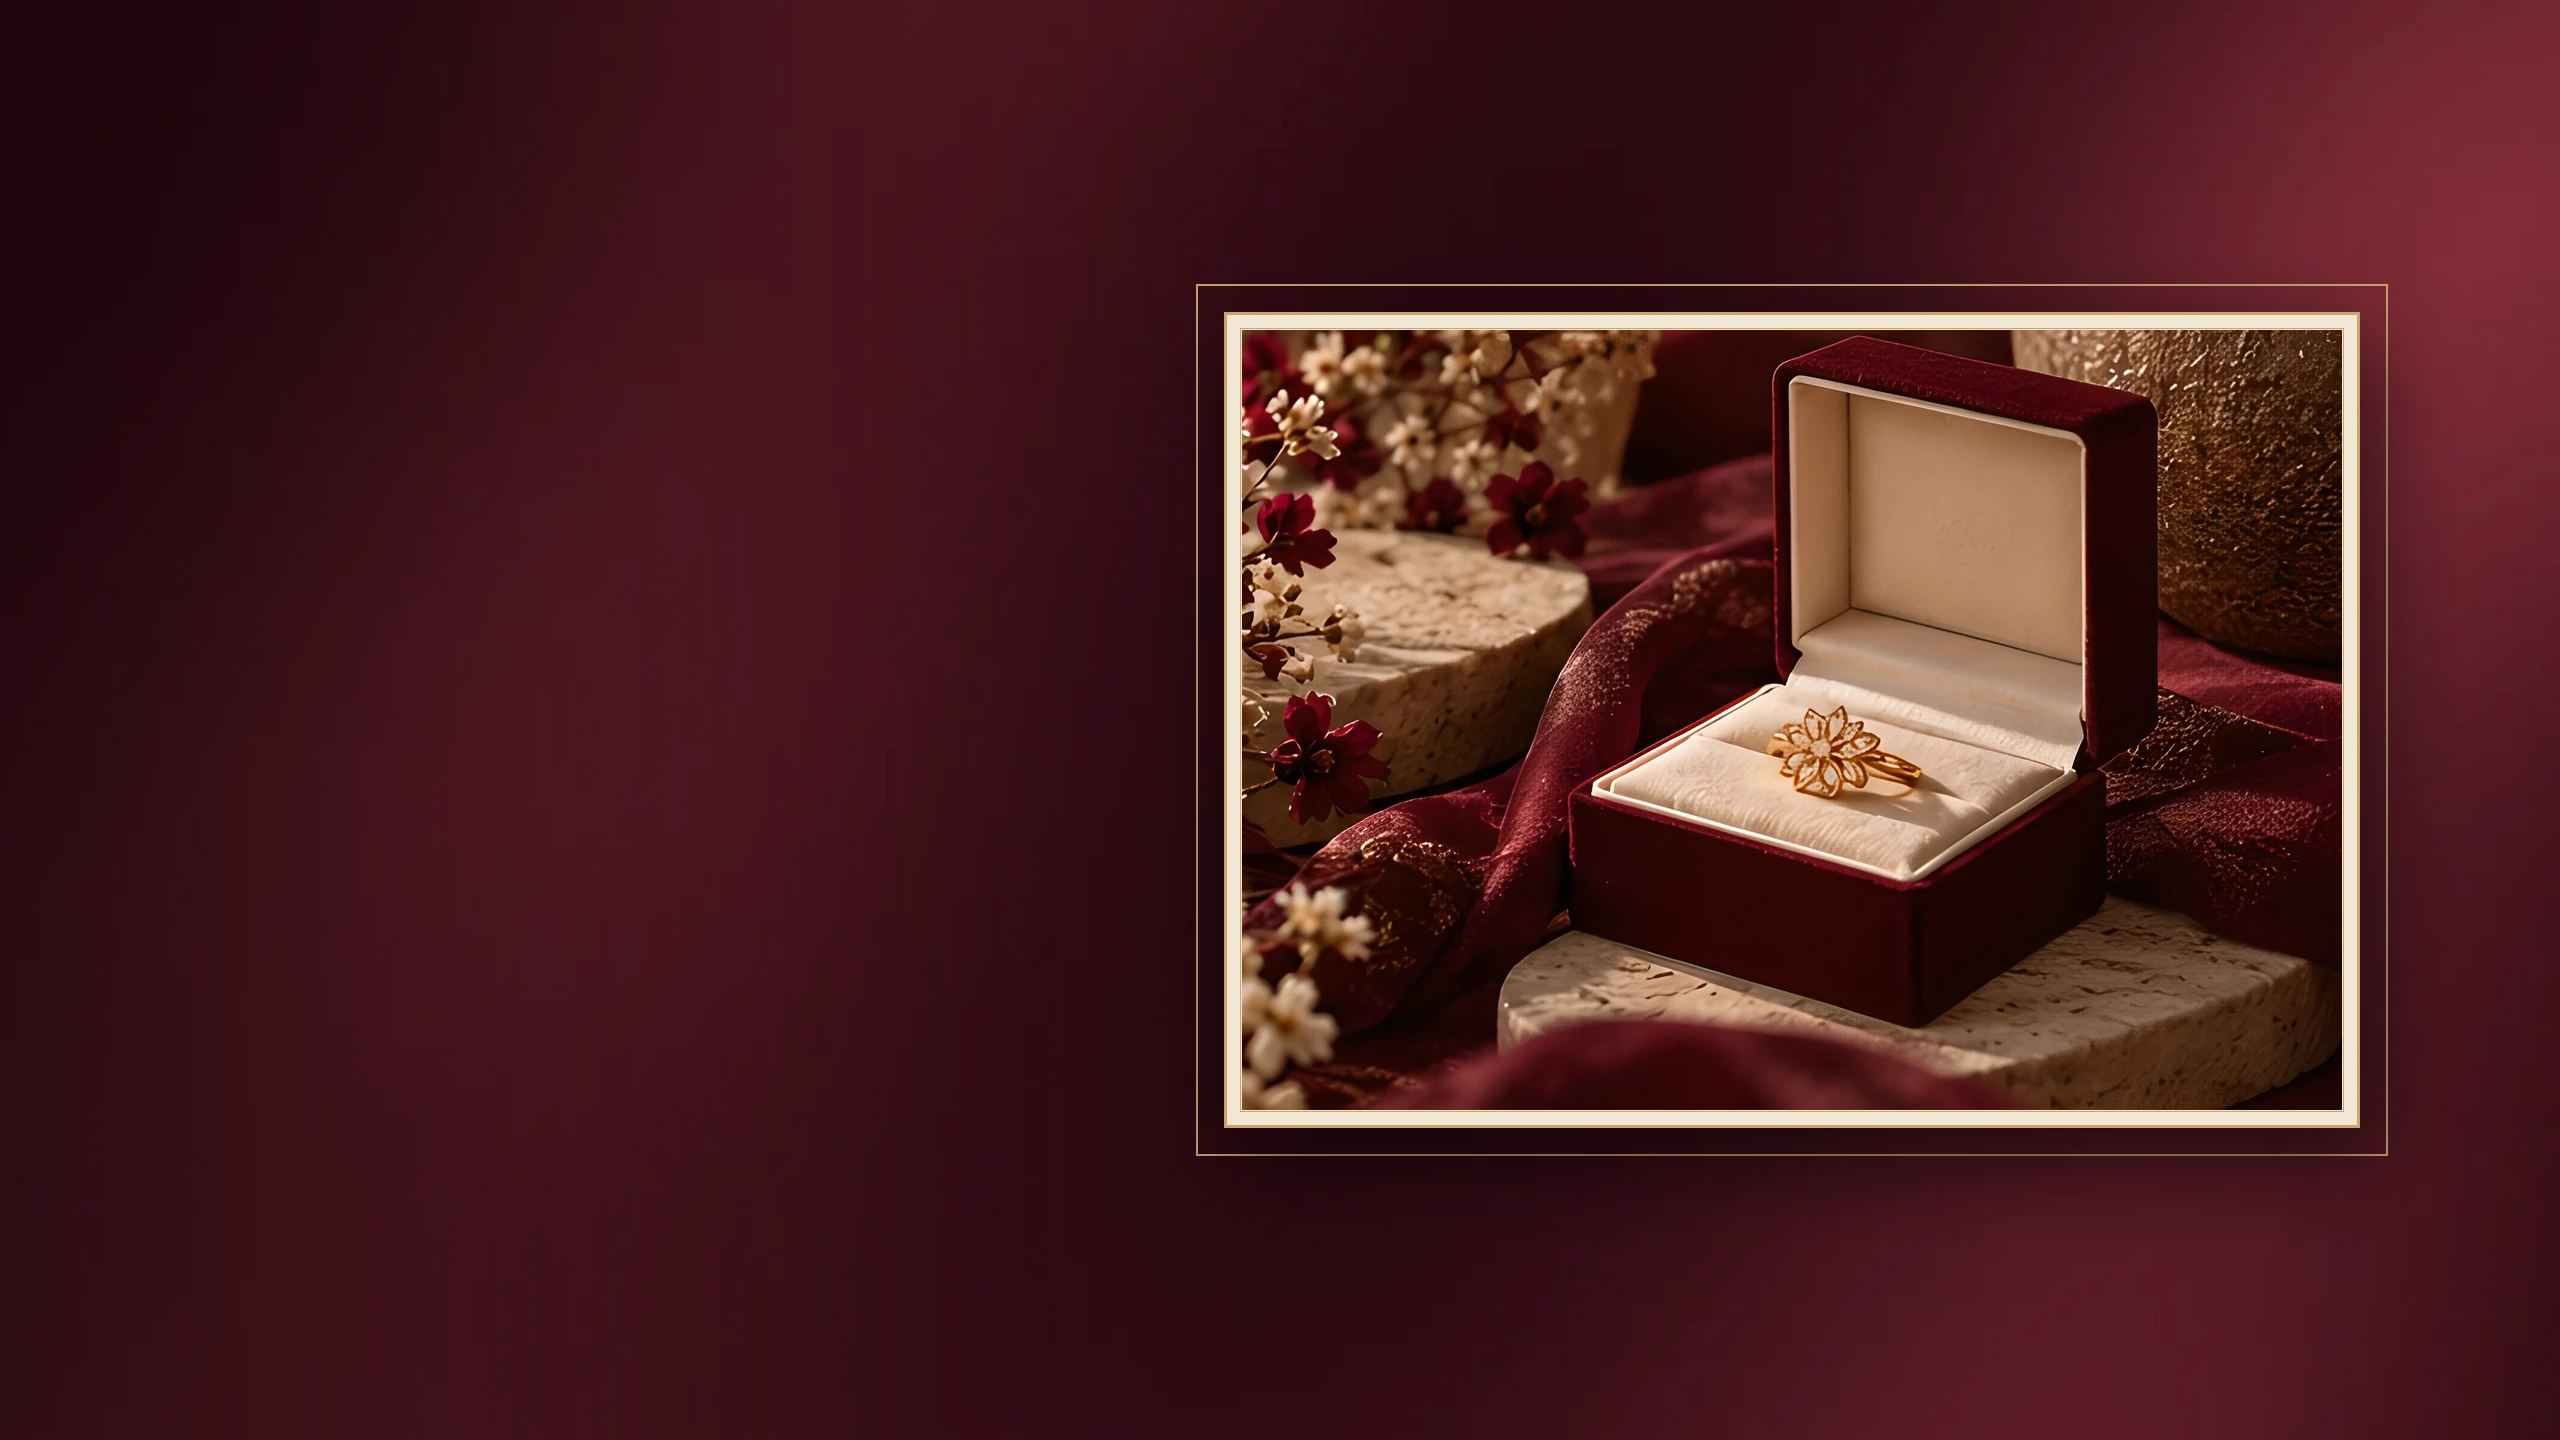
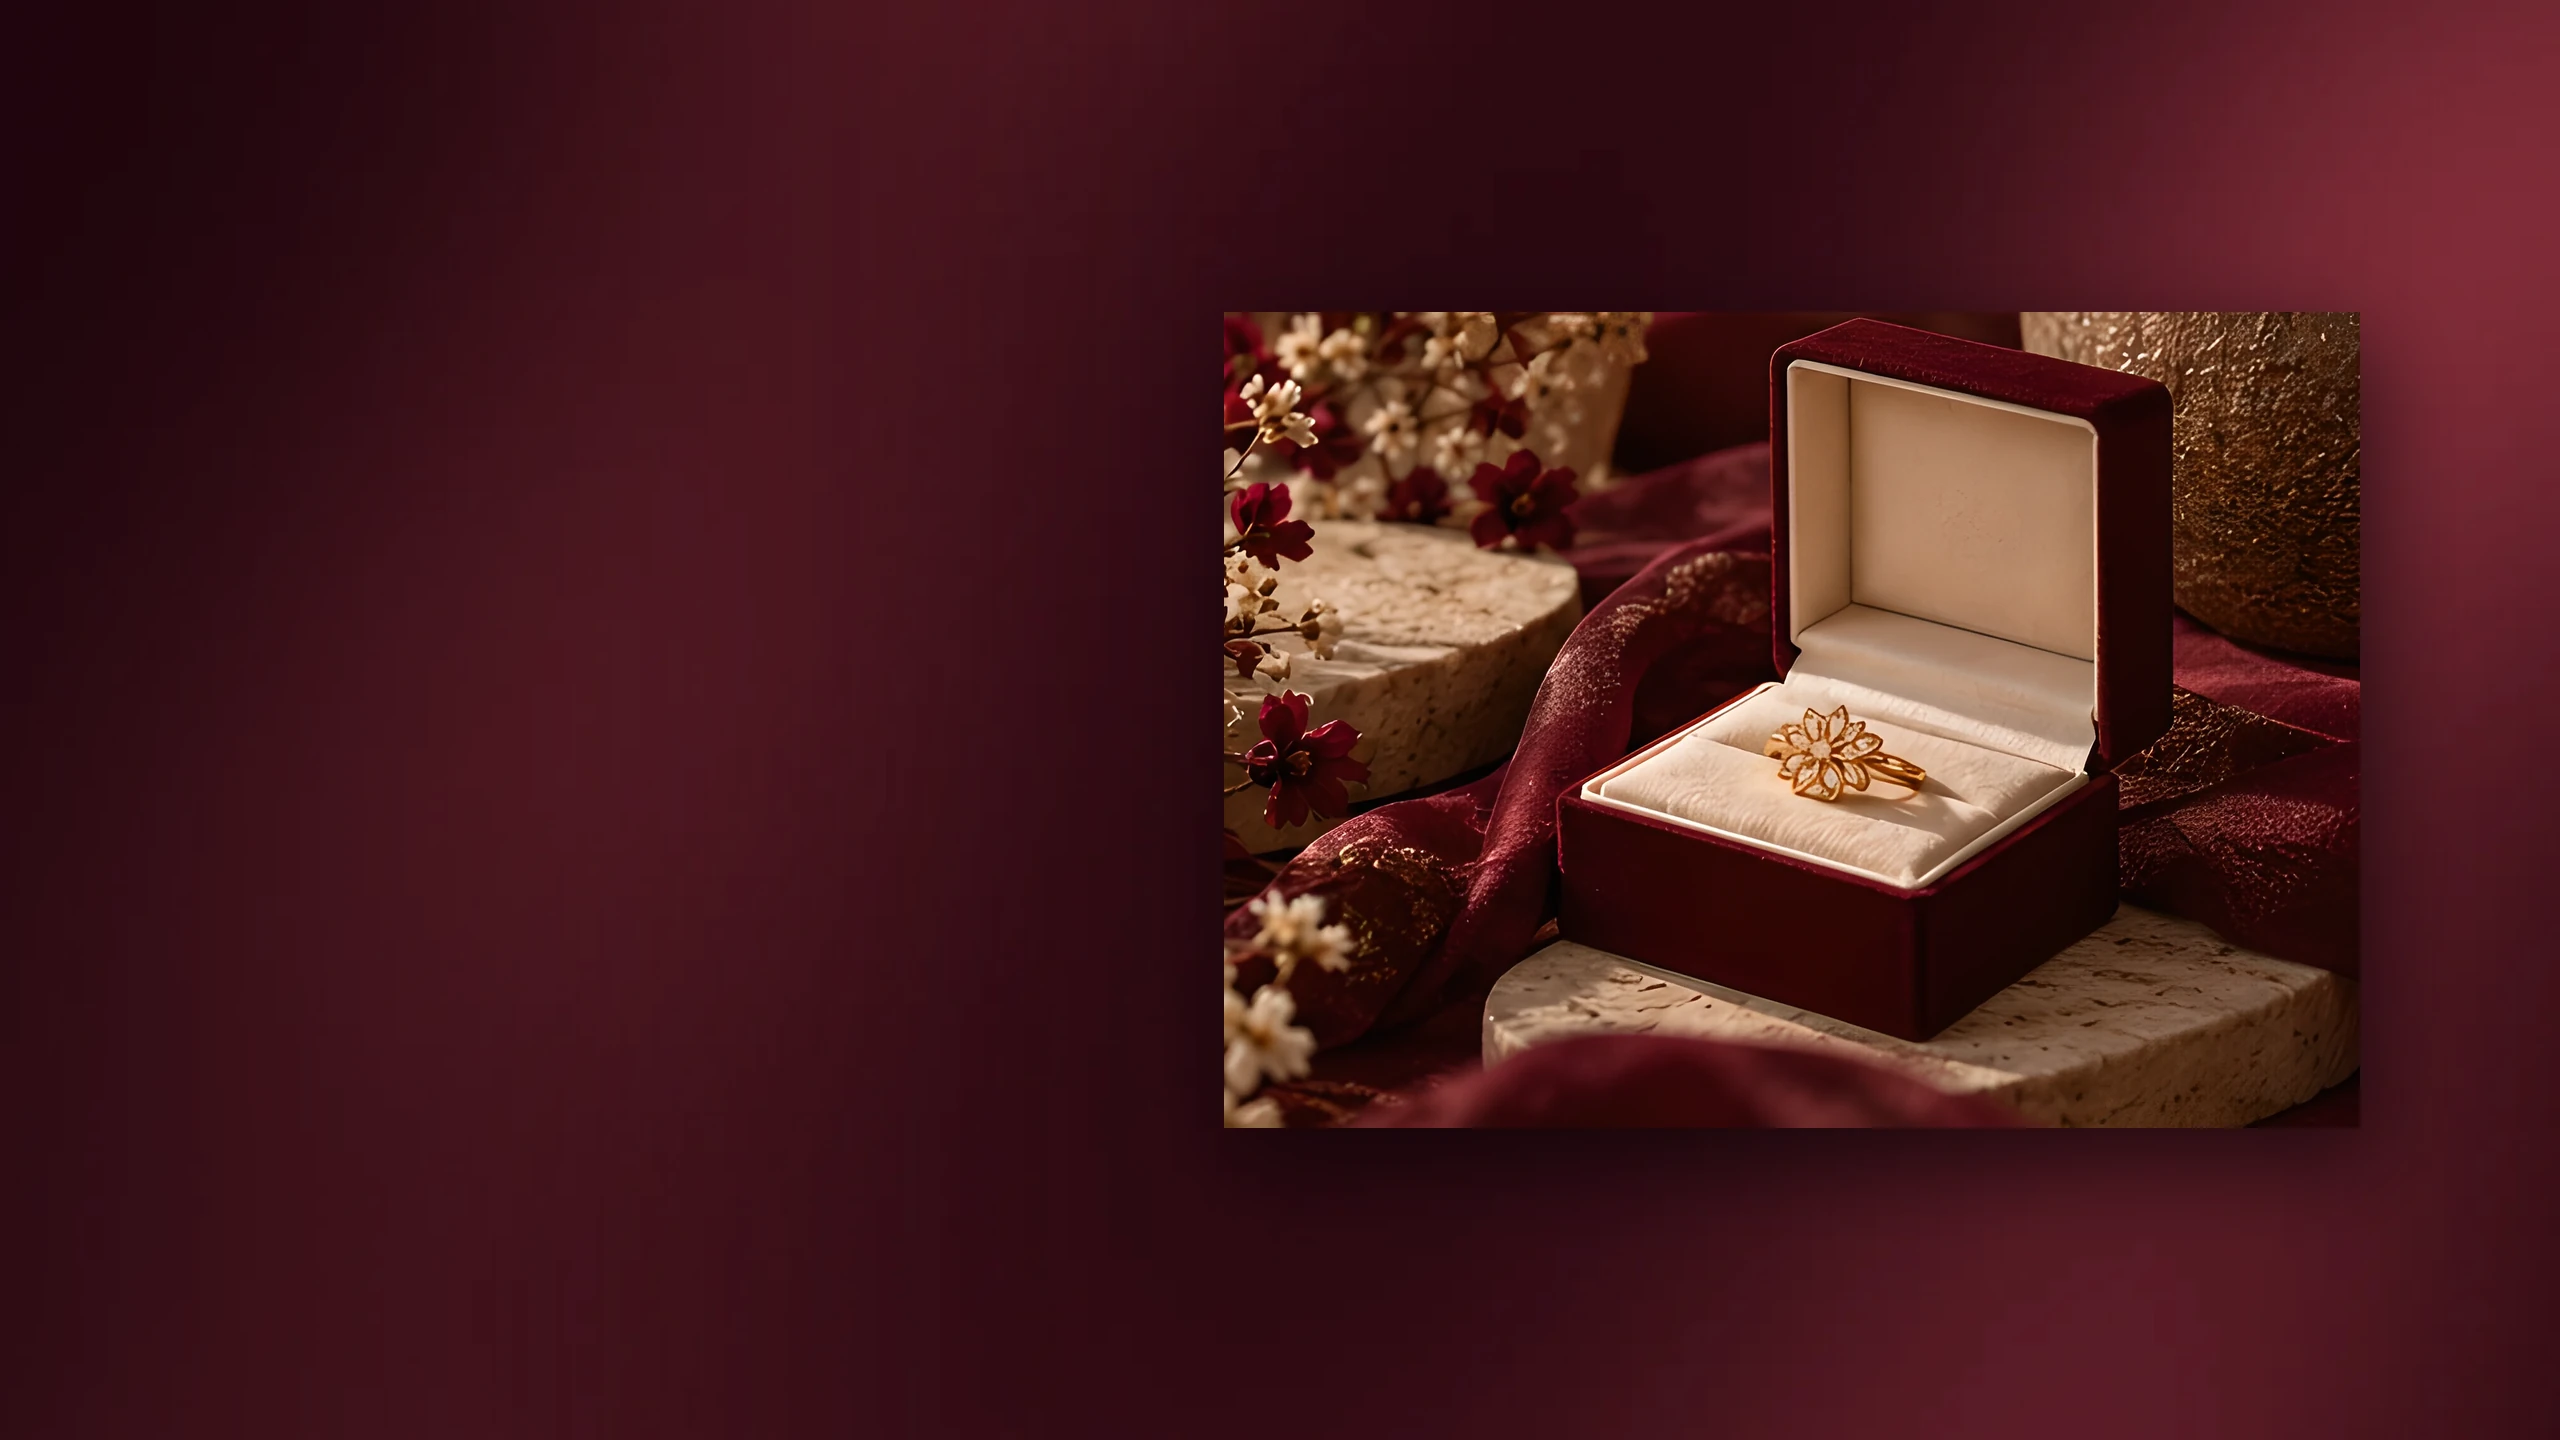
updated

Changed region(s): [[0.4688, 0.1875, 0.9375, 0.8125]]

diff --git a/src/data/images.js b/src/data/images.js
@@ -8,6 +8,7 @@ const g = (name) => `/images/generated/${name}.webp`
 
 // Responsive sources for the enhanced editorial images (800 / 1600px wide).
 const HIRES = ['hero-banner', 'story-still-life', 'model-portrait', 'design-sketch', 'artisan-detail', 'necklace-closeup', 'collection-still-life', 'woman-wearing', 'ring-still-life']
+const UPSCALED_4K = ['woman-wearing', 'story-still-life', 'hero-banner', 'design-sketch', 'model-portrait']
 const AI_4K = ['gift-box', 'gift-banner', 'gifting-hero']
 export function srcSetFor(src) {
   // 4K hero banners: /images/hero/hero-<name>-<width>.webp
@@ -22,6 +23,8 @@ export function srcSetFor(src) {
   // composed gift-curation banner: 1080 / 1920 / 2560px
   if (m[1] === 'gift-curation') return `${base}-1080.webp 1080w, ${base}-1920.webp 1920w, ${base}.webp 2560w`
   if (!HIRES.includes(m[1])) return undefined
+  // Real-ESRGAN x4plus upscales (Our Story set) also ship a 3840px 4K file
+  if (UPSCALED_4K.includes(m[1])) return `${base}-800.webp 800w, ${base}.webp 1600w, ${base}-3840.webp 3840w`
   return `${base}-800.webp 800w, ${base}.webp 1600w`
 }
 
@@ -50,9 +53,9 @@ export const IMG = {
   womanWearing: { src: e('woman-wearing'), alt: 'Woman in a burgundy saree wearing fine jewellery', placeholder: true },
   ringStill: { src: e('ring-still-life'), alt: 'Lotus cocktail ring on textured stone', placeholder: true },
   giftBox: { src: e('gift-box'), alt: 'Lotus ring presented in a burgundy velvet gift box', placeholder: true },
-  // Home 'Corporate gifting & bulk orders' banner - burgundy satin with one gold-framed photograph on the right
-  // (lotus ring in its velvet gift box); the copy sits on the darker, plain left half
-  giftBanner: { src: e('gift-curation'), alt: 'Gold lotus ring in an open burgundy velvet gift box, framed in gold on burgundy satin', position: '72% 50%' },
+  // Home 'Corporate gifting & bulk orders' banner - burgundy satin with one unframed photograph on the right
+  // (lotus ring in its velvet gift box, soft shadow); the copy sits on the darker, plain left half
+  giftBanner: { src: e('gift-curation'), alt: 'Gold lotus ring in an open burgundy velvet gift box on burgundy satin', position: '72% 50%' },
   // Corporate Gifting hero - 'Golden Floral Ring in Velvet Box' (4K), mirrored so the gift box sits left and the copy reads on the right
   giftingHero: { src: e('gifting-hero'), alt: 'Floral gold ring in an open burgundy velvet gift box on draped velvet among dried flowers', position: '35% 55%', mobilePosition: '28% 55%' },
   heartRose: { src: e('heart-necklace-rose-satin'), alt: 'Rose gold infinity heart necklace on satin', placeholder: true },

diff --git a/src/components/ui.jsx b/src/components/ui.jsx
@@ -122,7 +122,7 @@ export function PageHero({ eyebrow, title, intro, image, imageAlt = '', position
         {image && !detail && (
           <motion.div style={{ y: back }} initial={{ opacity: 0 }} animate={{ opacity: 1 }} transition={{ duration: 1.2, delay: 0.2 }} className={`w-full md:col-span-6 ${square ? '' : 'lg:col-span-5 lg:col-start-8'}`}>
             <div className={`mx-auto border border-gold/50 p-1.5 ${square ? 'max-w-[400px] sm:max-w-[480px] md:mr-0 lg:max-w-[540px]' : 'max-w-[460px] md:mr-0'}`}>
-              <img src={image} srcSet={srcSetFor(image)} sizes="(min-width: 1024px) 34vw, (min-width: 768px) 50vw, 100vw" alt={imageAlt} data-placeholder={image.includes('/brand/') ? undefined : 'true'} className={`${square ? 'aspect-square' : 'aspect-[4/5]'} w-full object-cover`} style={{ objectPosition: position }} />
+              <img src={image} srcSet={srcSetFor(image)} sizes={square ? '(min-width: 1024px) 72vw, (min-width: 768px) 100vw, 200vw' : '(min-width: 1024px) 34vw, (min-width: 768px) 50vw, 100vw'} alt={imageAlt} data-placeholder={image.includes('/brand/') ? undefined : 'true'} className={`${square ? 'aspect-square' : 'aspect-[4/5]'} w-full object-cover`} style={{ objectPosition: position }} />
             </div>
           </motion.div>
         )}
